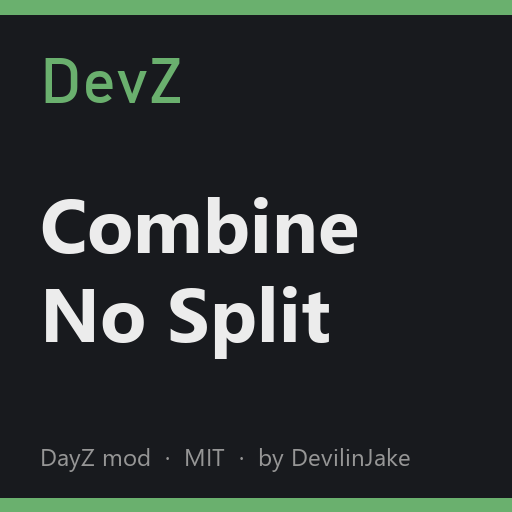
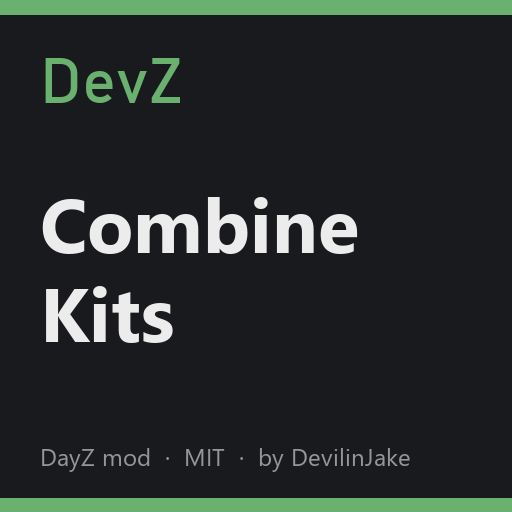
Rename two mods' display names: Combine Kits, Weapon & Suppressor Durability
Folder and class names stay the same (DevZ_CombineNoSplit, DevZ_WeaponDurability),
so nothing that loads them changes.

Changed region(s): [[0.0938, 0.5625, 0.6562, 0.7188]]

diff --git a/tools/make_workshop.py b/tools/make_workshop.py
@@ -41,7 +41,7 @@ MODS = {
         ],
     ),
     "WeaponDurability": (
-        "Weapon\nDurability", (196, 92, 92),
+        "Weapon &\nSuppressor\nDurability", (196, 92, 92),
         "Weapons and suppressors wear out slower: one multiplier each, per-weapon overrides.",
         [
             "Every shot wears a gun by the ammo's damageBarrel divided by the gun's [b]barrelArmor[/b]. This mod only raises barrelArmor, so 10x armor = 10x as many shots.",
@@ -53,7 +53,7 @@ MODS = {
         ],
     ),
     "CombineNoSplit": (
-        "Combine\nNo Split", (106, 176, 110),
+        "Combine\nKits", (106, 176, 110),
         "Combine part-used bandages, repair kits and gas mask filters, but never split them.",
         [
             "Drag a 2-use bandage onto a 3-use one: you get a full bandage (4 uses) plus one with 1 use. A 60% sewing kit onto another 60% kit gives 100% + 20%.",
@@ -100,7 +100,8 @@ def preview(title, accent, path):
     d.rectangle([0, 0, size, 14], fill=accent)
     d.rectangle([0, size - 14, size, size], fill=accent)
     d.text((40, 52), "DevZ", font=font("bahnschrift.ttf", 64), fill=accent)
-    d.multiline_text((40, 170), title, font=font("segoeuib.ttf", 76), fill=(236, 236, 236), spacing=6)
+    big = 76 if title.count("\n") < 2 else 62  # three lines need a smaller size to clear the footer
+    d.multiline_text((40, 170 if big == 76 else 150), title, font=font("segoeuib.ttf", big), fill=(236, 236, 236), spacing=6)
     d.text((40, 440), "DayZ mod  ·  MIT  ·  by DevilinJake", font=font("segoeui.ttf", 24), fill=(150, 150, 150))
     img.save(path, optimize=True)
 

diff --git a/CombineNoSplit/mod.cpp b/CombineNoSplit/mod.cpp
@@ -1,4 +1,4 @@
-name = "DevZ Combine No Split";
+name = "DevZ Combine Kits";
 author = "DevilinJake";
 tooltip = "Combine part-used bandages, repair kits and filters, but never split them";
 overview = "Combine part-used items like bandages and repair kits into one. They can't be split apart. The item list is a simple table; see the README on GitHub.";

diff --git a/CombineNoSplit/generate_config.py b/CombineNoSplit/generate_config.py
@@ -42,7 +42,7 @@ def write_config(rows, out):
         f'\tclass {PATCH}',
         '\t{',
         f'\t\tdir = "{PATCH}";',
-        '\t\tname = "DevZ Combine No Split";',
+        '\t\tname = "DevZ Combine Kits";',
         '\t\tauthor = "DevilinJake";',
         '\t\ttype = "mod";',
         '\t\tdependencies[] = {"World"};',

diff --git a/WeaponDurability/mod.cpp b/WeaponDurability/mod.cpp
@@ -1,4 +1,4 @@
-name = "DevZ Weapon Durability";
+name = "DevZ Weapon & Suppressor Durability";
 author = "DevilinJake";
 tooltip = "Weapons and suppressors wear out slower";
 overview = "Changes how fast weapons, suppressors and muzzle attachments wear: one multiplier each, with per-weapon overrides. See the README on GitHub.";

diff --git a/CombineNoSplit/src/config.cpp b/CombineNoSplit/src/config.cpp
@@ -17,7 +17,7 @@ class CfgMods
 	class DevZ_CombineNoSplit
 	{
 		dir = "DevZ_CombineNoSplit";
-		name = "DevZ Combine No Split";
+		name = "DevZ Combine Kits";
 		author = "DevilinJake";
 		type = "mod";
 		dependencies[] = {"World"};

diff --git a/WeaponDurability/README.md b/WeaponDurability/README.md
@@ -1,4 +1,4 @@
-# DevZ Weapon Durability
+# DevZ Weapon & Suppressor Durability
 
 Makes weapons, suppressors and other muzzle attachments wear out slower (or faster). Set one
 multiplier for weapons and one for suppressors, and change any single weapon or attachment you

diff --git a/CombineNoSplit/README.md b/CombineNoSplit/README.md
@@ -1,4 +1,4 @@
-# DevZ Combine No Split
+# DevZ Combine Kits
 
 Combine part-used bandages, repair kits and gas mask filters into one, the same way you combine
 rags or ammo. Drag a bandage with 2 uses onto one with 3 uses and you get a full bandage (4 uses)
